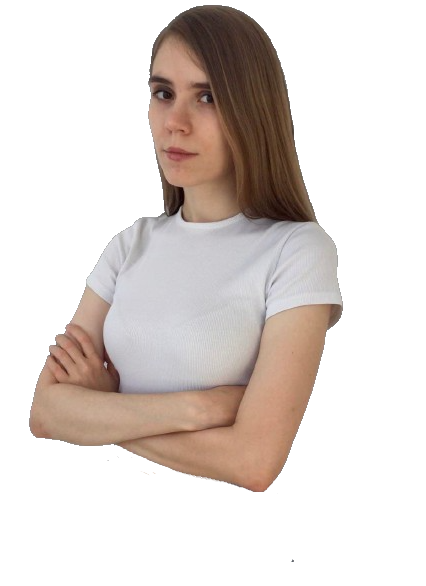
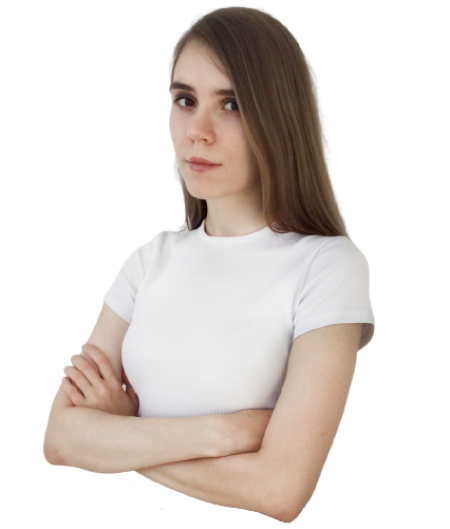
feat: add photo

diff --git a/src/layout/Home.vue b/src/layout/Home.vue
@@ -8,7 +8,6 @@
         </div>
         <div class="photo">
           <img class="photo__img" src="../assets/img/me.png" alt="">
-          <div class="photo__circle"></div>
         </div>
       </div>
     </div>
@@ -28,6 +27,7 @@ export default {
 
 <style lang="scss">
 .section-home {
+  padding-top: 80px;
   background: var(--bg-dark);
 }
 
@@ -37,6 +37,10 @@ export default {
   align-items: center;
   flex-wrap: wrap-reverse;
   height: 100vh;
+
+  @media (max-width: 420px) {
+    align-items: unset;
+  }
 }
 
 .info {
@@ -71,42 +75,13 @@ export default {
 }
 
 .photo {
-  position: relative;
   flex: 1 1 500px;
-  /* width: 500px; */
-  /* height: 500px; */
 
   &__img {
     width: 100%;
     height: 100%;
-    position: absolute;
-    top: 0;
-    left: 0;
-    right: 0;
-    bottom: 0;
-    z-index: 2;
-    margin: auto;
-
-    img {
-      width: 100%;
-      height: 100%;
-      object-fit: contain;
-    }
-  }
-
-  &__circle {
-    position: absolute;
-    top: 0;
-    left: 0;
-    right: 0;
-    bottom: 0;
-    width: 450px;
-    height: 450px;
-    background: var(--bg-light);
-    border-radius: 50%;
-
-    margin: auto;
-    z-index: 1;
+    max-height: 500px;
+    object-fit: contain;
   }
 }
 </style>
